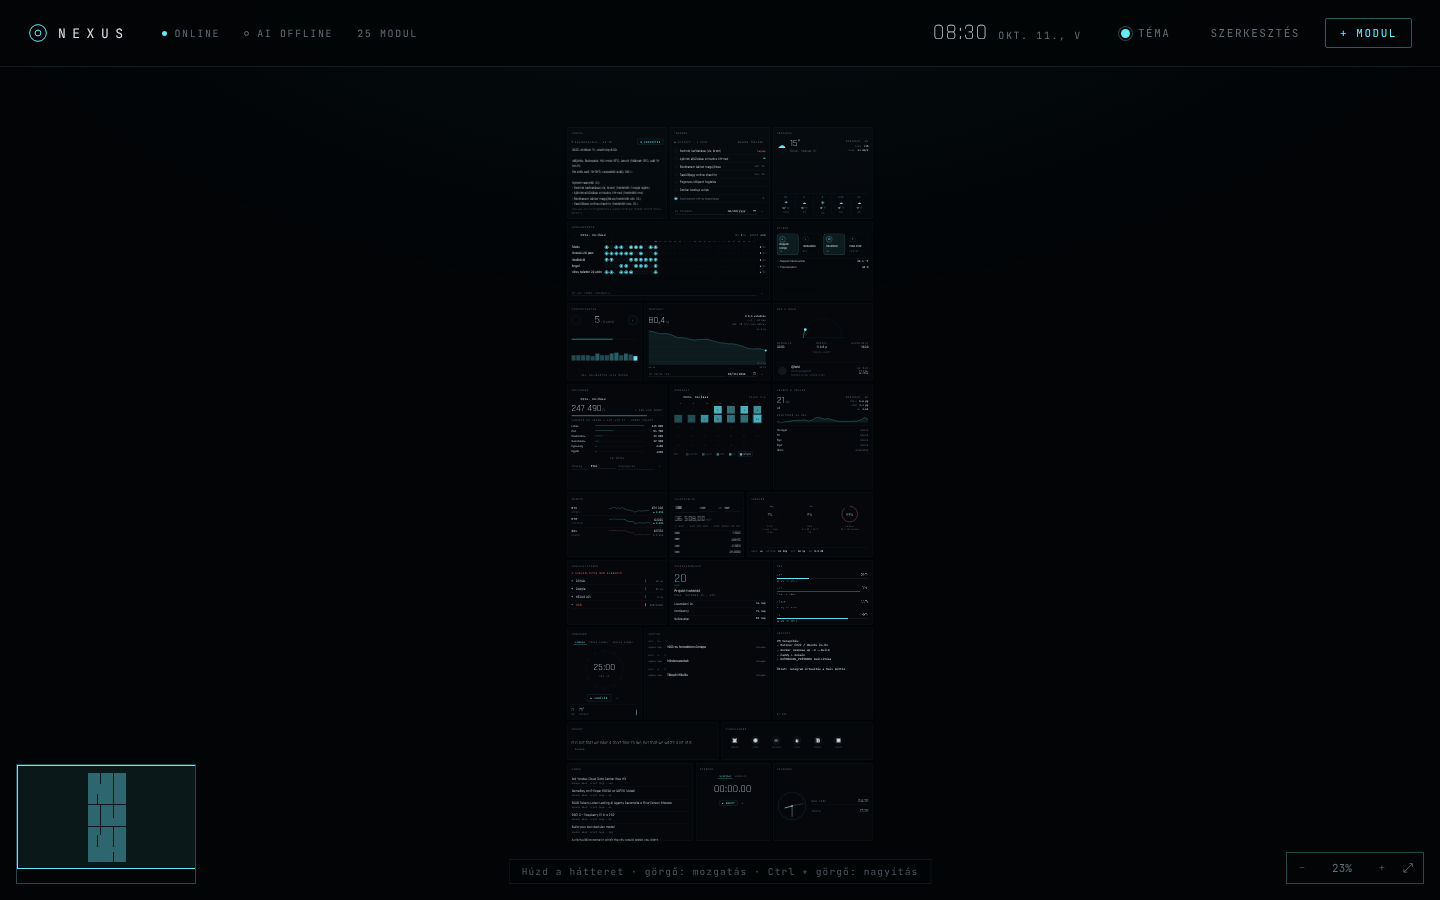
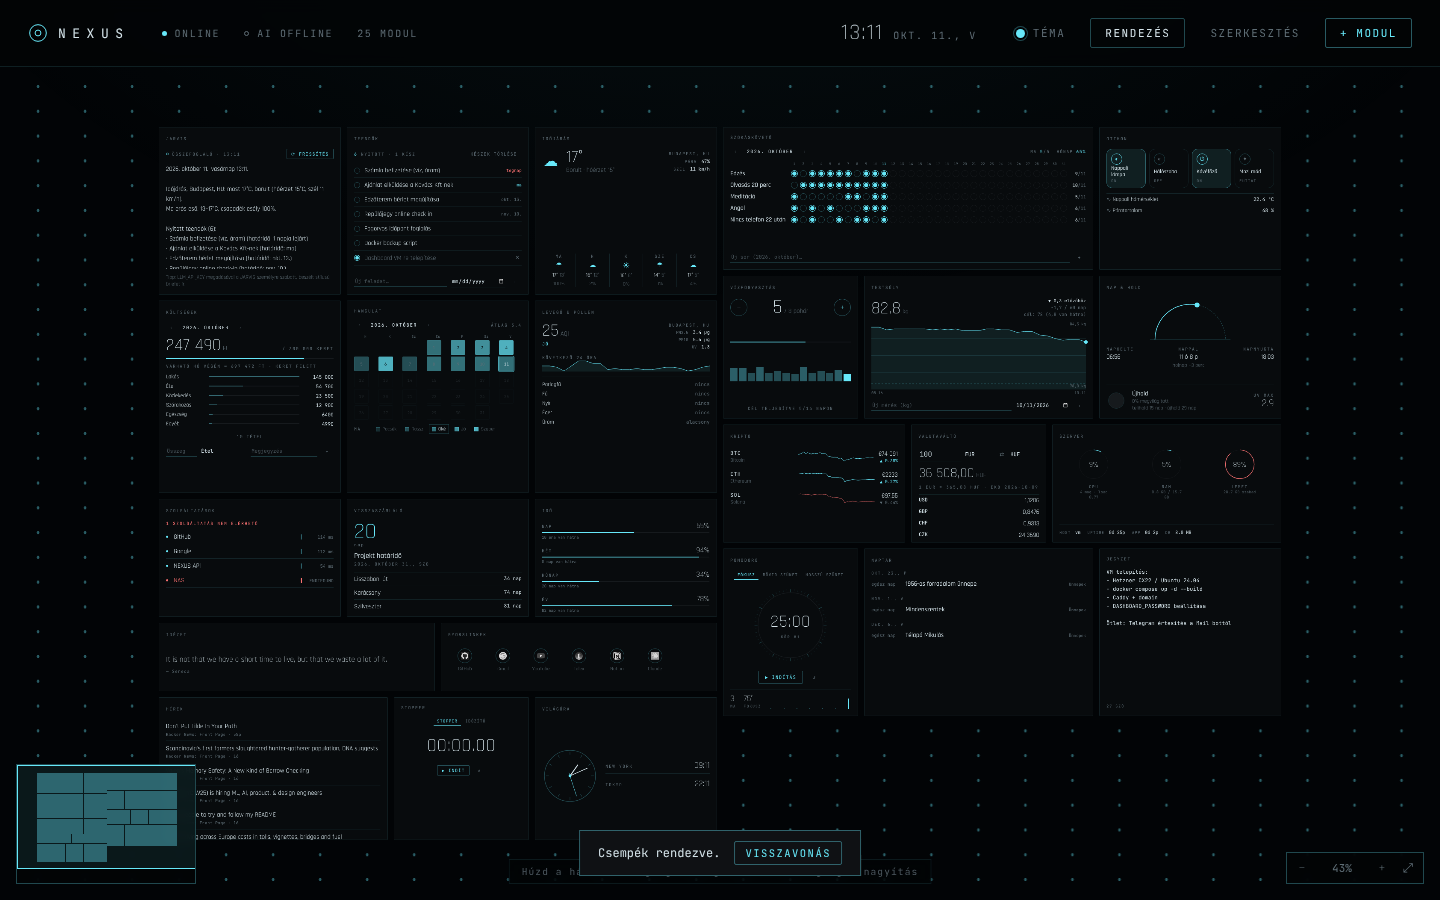
Canvas: fix tiles jumping when moved, add Arrange button
Root causes of tiles landing far away / jumping:
- preventCollision snapped a tile dropped onto another back to its last
  valid spot (often many cells away). Tiles now follow the cursor freely
  and land where dropped, or at the nearest free spot (shown as a dashed
  landing preview while dragging); a resize moves covered neighbours aside
- react-grid-layout stores its own unresolved layout right after
  onDragStop/onResizeStop, so the screen could differ from what was saved
  (tiles 'moved' on reload). Resolved positions are written into the
  layout objects it keeps, so screen and DB always match
- holding space to pan toggled isDraggable, which never reached RGL's
  memoised items: tiles stayed undraggable afterwards. Space-pan now
  intercepts pointerdown in the capture phase instead; space no longer
  'clicks' the focused button (which turned edit mode off)
- the world grew with animated tile transitions while the view jumped;
  transitions removed. The world now also grows ahead of panning so
  there is always canvas under the cursor to drop onto (a pan in
  progress is compensated too)

Also:
- 'Rendezés' (Arrange) in the header packs tiles first-fit in reading
  order into a band sized to the screen's aspect ratio, then fits the
  view; undo available for 12 s
- zoomed out (<50%) the whole tile is a drag handle in edit mode

Claude-Session: https://claude.ai/code/session_01FdLF9bfjzCjrgQMXXWBU8X

diff --git a/client/src/components/Canvas.jsx b/client/src/components/Canvas.jsx
@@ -6,7 +6,7 @@ export const CELL_W = 96;
 export const CELL_H = 44;
 export const GAP = 14;
 const MIN_COLS = 160;
-const EDGE = 8; // keep at least this many free cells left / above the content (the world grows as needed)
+const EDGE = 3; // keep at least this many free cells left / above the content (the world grows as needed)
 const ZOOM_MIN = 0.1;
 const ZOOM_MAX = 2;
 const VIEW_KEY = 'nexus:canvas-view';
@@ -46,6 +46,48 @@ export function findFreeSpot(items, w, h, cx, cy) {
   }
   const b = items.reduce((m, it) => Math.max(m, it.y + it.h), 0);
   return { x: x0, y: b + 1 };
+}
+
+// After a drag: the moved tile stays where it was dropped, or goes to the nearest free spot.
+function resolveDrag(layout, id) {
+  const moved = layout.find((l) => l.i === id);
+  const others = layout.filter((l) => l.i !== id);
+  if (!moved || !others.some((o) => overlaps(o, moved))) return layout;
+  const spot = findFreeSpot(others, moved.w, moved.h, moved.x + moved.w / 2, moved.y + moved.h / 2);
+  return layout.map((l) => (l.i === id ? { ...l, ...spot } : l));
+}
+
+// After a resize: the resized tile keeps its size; tiles it now covers step aside to the nearest free spot.
+function resolveResize(layout, id) {
+  const resized = layout.find((l) => l.i === id);
+  if (!resized) return layout;
+  const rest = layout.filter((l) => l.i !== id);
+  const result = [resized, ...rest.filter((l) => !overlaps(l, resized))];
+  for (const l of rest.filter((o) => overlaps(o, resized))) {
+    result.push({ ...l, ...findFreeSpot(result, l.w, l.h, l.x + l.w / 2, l.y + l.h / 2) });
+  }
+  return result;
+}
+
+// "Rendezés": pack tiles top-left first, in reading order, into a band `width` cells wide.
+export function arrange(items, width, origin = { x: 24, y: 24 }) {
+  const order = [...items].sort((a, b) => a.y - b.y || a.x - b.x);
+  const W = Math.max(width, ...order.map((l) => l.w));
+  const placed = [];
+  for (const l of order) {
+    let spot = null;
+    for (let y = 0; !spot; y++) {
+      for (let x = 0; x + l.w <= W; x++) {
+        const cand = { x, y, w: l.w, h: l.h };
+        if (!placed.some((p) => overlaps(p, cand))) {
+          spot = cand;
+          break;
+        }
+      }
+    }
+    placed.push({ ...l, x: spot.x, y: spot.y });
+  }
+  return placed.map((l) => ({ ...l, x: l.x + origin.x, y: l.y + origin.y }));
 }
 
 function loadView() {
@@ -101,6 +143,9 @@ export default function Canvas({ items, onItemsChange, editing, children, onApi 
     [items, size],
   );
 
+  const fitRef = useRef(fit);
+  fitRef.current = fit;
+
   // First visit: show everything.
   useEffect(() => {
     if (!view && items.length && size.w > 0) fit();
@@ -137,12 +182,22 @@ export default function Canvas({ items, onItemsChange, editing, children, onApi 
   useEffect(() => {
     onApi?.({
       centerCell,
+      // tidy everything into a band as wide as the screen (at 100%), then show it all
+      arrange: () => {
+        // band width chosen so the packed block has the screen's aspect ratio (fills the screen when fitted)
+        const area = items.reduce((a, l) => a + l.w * (CELL_W + GAP) * l.h * (CELL_H + GAP), 0);
+        const widthPx = Math.sqrt(area * (size.w / Math.max(1, size.h)));
+        const cols = Math.min(48, Math.max(8, Math.round(widthPx / (CELL_W + GAP))));
+        const next = arrange(items, cols, { x: EDGE * 4, y: EDGE * 4 });
+        onItemsChange(next);
+        setTimeout(() => fitRef.current?.(next), 0);
+      },
       reveal: (l) => {
         const p = toPx(l);
         centerOn(p.x + p.w / 2, p.y + p.h / 2);
       },
     });
-  }, [onApi, centerCell, centerOn]);
+  }, [onApi, centerCell, centerOn, items, size, onItemsChange]);
 
   // ---------- wheel: pan, ctrl/⌘ (or pinch) zooms ----------
   useEffect(() => {
@@ -178,7 +233,12 @@ export default function Canvas({ items, onItemsChange, editing, children, onApi 
         setSpace(true);
       }
     };
-    const up = (e) => e.code === 'Space' && setSpace(false);
+    const up = (e) => {
+      if (e.code !== 'Space') return;
+      setSpace(false);
+      // space is our pan key: don't let it also "click" the focused button (e.g. toggle edit mode off)
+      if (!/input|textarea|select/i.test(e.target.tagName) && !e.target.isContentEditable) e.preventDefault();
+    };
     window.addEventListener('keydown', down);
     window.addEventListener('keyup', up);
     return () => {
@@ -187,10 +247,14 @@ export default function Canvas({ items, onItemsChange, editing, children, onApi 
     };
   }, []);
 
+  // Capture phase: with space held (or the middle button) we pan even over a tile, and preventDefault on
+  // pointerdown suppresses the mousedown the tile's drag handler would otherwise get. Tiles stay
+  // isDraggable the whole time — toggling it does not reach react-grid-layout's memoised items.
   const onPointerDown = (e) => {
     const onTile = e.target.closest('.react-grid-item, .canvas-ui');
     if (!(e.button === 1 || (e.button === 0 && (space || !onTile)))) return;
     e.preventDefault();
+    e.stopPropagation();
     pan.current = { id: e.pointerId, sx: e.clientX, sy: e.clientY, x: v.x, y: v.y };
     vpRef.current.setPointerCapture(e.pointerId);
     setPanning(true);
@@ -225,9 +289,72 @@ export default function Canvas({ items, onItemsChange, editing, children, onApi 
   );
 
   const strip = (layout) => layout.map(({ i, x, y, w, h, minW, minH }) => ({ i, x, y, w, h, minW, minH }));
-  const commit = (layout) => onItemsChange(normalise(strip(layout)));
+  const interacting = useRef(false); // a tile is being dragged / resized
+
+  // The world starts at cell 0; keep at least half a screen of it left of / above the viewport, so wherever
+  // you pan there is canvas under the cursor to drop onto. Grows by shifting all tiles and the view together.
+  useEffect(() => {
+    if (!view || interacting.current || !items.length) return;
+    const cw = (CELL_W + GAP) * view.zoom;
+    const ch = (CELL_H + GAP) * view.zoom;
+    const dx = view.x > -size.w / 2 ? Math.ceil((view.x + size.w / 2) / cw) + 10 : 0;
+    const dy = view.y > -size.h / 2 ? Math.ceil((view.y + size.h / 2) / ch) + 10 : 0;
+    if (!dx && !dy) return;
+    onItemsChange(items.map((l) => ({ ...l, x: l.x + dx, y: l.y + dy })));
+    setView((c) => ({ ...c, x: c.x - dx * cw, y: c.y - dy * ch }));
+    // a pan in progress computes the view from its start point — move that too, or the next mouse move undoes this
+    if (pan.current) {
+      pan.current.x -= dx * cw;
+      pan.current.y -= dy * ch;
+    }
+  }, [view, items, size, onItemsChange]);
+  const [ghost, setGhost] = useState(null);
+  const lastDrag = useRef(null);
+
+  // While dragging, tiles may overlap freely (so the tile follows the cursor); show where it will land.
+  const onStart = () => {
+    interacting.current = true;
+  };
+  const onDrag = (layout, _old, item) => {
+    const resolved = resolveDrag(strip(layout), item.i).find((l) => l.i === item.i);
+    lastDrag.current = { i: item.i, x: item.x, y: item.y };
+    setGhost(resolved.x !== item.x || resolved.y !== item.y ? resolved : null);
+  };
+  // react-grid-layout stores the very `layout` array it passes to onDragStop / onResizeStop right after
+  // calling us. Writing the resolved positions into those objects keeps its internal state and ours identical
+  // (handing them over as props instead races with that setState).
+  const applyTo = (rglLayout, resolved) => {
+    const byId = Object.fromEntries(resolved.map((l) => [l.i, l]));
+    for (const l of rglLayout) {
+      const r = byId[l.i];
+      if (r) Object.assign(l, { x: r.x, y: r.y, w: r.w, h: r.h });
+    }
+  };
+  const onDragStop = (layout, _old, item) => {
+    interacting.current = false;
+    setGhost(null);
+    // land exactly where the preview / placeholder last was (the drop event can round one cell differently)
+    const last = lastDrag.current?.i === item.i ? lastDrag.current : null;
+    lastDrag.current = null;
+    const dropped = strip(layout).map((l) => (last && l.i === item.i ? { ...l, x: last.x, y: last.y } : l));
+    const final = normalise(resolveDrag(dropped, item.i));
+    applyTo(layout, final);
+    onItemsChange(final);
+  };
+  const onResizeStop = (layout, _old, item) => {
+    interacting.current = false;
+    const final = normalise(resolveResize(strip(layout), item.i));
+    applyTo(layout, final);
+    onItemsChange(final);
+  };
 
   const layout = useMemo(() => items.map((l) => ({ ...l })), [items]);
+  // react-grid-layout's items only re-render when their children change. When the drag handle mode flips
+  // (zoomed out: whole tile; otherwise: header) hand them fresh elements once so the new mode applies.
+  const grabAll = v.zoom < 0.5;
+  // eslint-disable-next-line react-hooks/exhaustive-deps
+  // (plain array map: React.Children.map would prefix the keys react-grid-layout matches the layout by)
+  const tiles = useMemo(() => [].concat(children).map((c) => React.cloneElement(c)), [children, grabAll]);
   const content = bounds(items);
 
   // ---------- minimap ----------
@@ -262,7 +389,7 @@ export default function Canvas({ items, onItemsChange, editing, children, onApi 
       ref={vpRef}
       className={`canvas-viewport ${panning ? 'panning' : ''} ${space ? 'space' : ''} ${v.zoom < 0.3 ? 'far' : ''}`}
       style={bg}
-      onPointerDown={onPointerDown}
+      onPointerDownCapture={onPointerDown}
       onPointerMove={onPointerMove}
       onPointerUp={endPan}
       onPointerCancel={endPan}
@@ -276,18 +403,23 @@ export default function Canvas({ items, onItemsChange, editing, children, onApi 
           rowHeight={CELL_H}
           margin={[GAP, GAP]}
           compactType={null}
-          preventCollision
+          allowOverlap
           transformScale={v.zoom}
-          isDraggable={editing && !space}
-          isResizable={editing && !space}
-          draggableHandle=".tile-head"
-          draggableCancel=".no-drag"
+          isDraggable={editing}
+          isResizable={editing}
+          // zoomed out, headers are tiny targets: let the whole tile be grabbed (except controls)
+          draggableHandle={grabAll ? undefined : '.tile-head'}
+          draggableCancel={grabAll ? 'button, input, textarea, select, a, iframe, .react-resizable-handle' : '.no-drag'}
           resizeHandles={['se']}
-          onDragStop={commit}
-          onResizeStop={commit}
+          onDragStart={onStart}
+          onResizeStart={onStart}
+          onDrag={onDrag}
+          onDragStop={onDragStop}
+          onResizeStop={onResizeStop}
         >
-          {children}
+          {tiles}
         </GridLayout>
+        {ghost && <div className="canvas-ghost" style={{ left: toPx(ghost).x, top: toPx(ghost).y, width: toPx(ghost).w, height: toPx(ghost).h }} />}
       </div>
 
       {mmArea && (

diff --git a/client/src/styles.css b/client/src/styles.css
@@ -709,7 +709,10 @@ select.input option { background: var(--surface); color: var(--text); }
 .canvas-world { position: absolute; left: 0; top: 0; transform-origin: 0 0; will-change: transform; }
 .canvas-grid { min-height: 100px; }
 /* tiles are moved by RGL inside the scaled world; keep their own transitions for drag feedback only */
-.canvas-world .react-grid-item:not(.react-draggable-dragging):not(.resizing) { transition: transform 0.15s ease, width 0.15s, height 0.15s; }
+/* no position transitions on the canvas: when the world grows, tiles and view must move in the same frame */
+.canvas-world .react-grid-item { transition: none !important; }
+.canvas-ghost { position: absolute; z-index: 1; border: 1px dashed var(--accent); background: var(--accent-soft); border-radius: var(--radius); pointer-events: none; }
+.canvas-ghost::after { content: 'ide kerül'; position: absolute; left: 8px; top: 6px; font-family: var(--font-mono); font-size: 10px; letter-spacing: 0.16em; text-transform: uppercase; color: var(--accent); }
 .canvas-ui { position: absolute; z-index: 5; background: color-mix(in srgb, var(--bg) 88%, transparent); border: 1px solid var(--line-strong); backdrop-filter: blur(6px); }
 .zoom-ctrl { right: 16px; bottom: 16px; display: flex; align-items: center; gap: 2px; padding: 3px; }
 .zoom-pct { min-width: 52px; background: transparent; border: none; cursor: pointer; font-family: var(--font-mono); font-size: 11px; color: var(--muted); }
@@ -721,3 +724,4 @@ select.input option { background: var(--surface); color: var(--text); }
 @media (max-width: 1100px) { .canvas-hint { display: none; } }
 /* on the canvas the dot grid must not show through the tiles */
 .canvas-world .tile { background: color-mix(in srgb, var(--bg) 97%, var(--text)); }
+.toast.toast-info { border-color: var(--accent-dim); color: var(--text); display: flex; align-items: center; gap: 14px; cursor: default; z-index: 61; }

diff --git a/client/src/App.jsx b/client/src/App.jsx
@@ -57,6 +57,8 @@ export default function App() {
   const canvasTimer = useRef(null);
   const canvasApi = useRef(null);
   const isDesktop = useIsDesktop();
+  const [undo, setUndo] = useState(null); // previous canvas after "Rendezés"
+  const undoTimer = useRef(null);
 
   useEffect(() => {
     api
@@ -118,6 +120,18 @@ export default function App() {
     }
     return items;
   }, [canvas, widgets]);
+
+  const arrangeCanvas = () => {
+    const before = safeCanvas;
+    canvasApi.current?.arrange();
+    setUndo(before);
+    clearTimeout(undoTimer.current);
+    undoTimer.current = setTimeout(() => setUndo(null), 12_000);
+  };
+  const undoArrange = () => {
+    changeCanvas(undo);
+    setUndo(null);
+  };
 
   const onLayoutChange = useCallback(
     (_current, all) => {
@@ -213,10 +227,20 @@ export default function App() {
         editing={editing}
         onToggleEdit={() => setEditing((e) => !e)}
         onAdd={() => setPicker(true)}
+        onArrange={isDesktop && widgets.length > 1 ? arrangeCanvas : null}
         count={widgets.length}
         appearance={appearance}
         onAppearance={changeAppearance}
       />
+
+      {undo && (
+        <div className="toast toast-info">
+          Csempék rendezve.
+          <button className="btn btn-primary sm" onClick={undoArrange}>
+            Visszavonás
+          </button>
+        </div>
+      )}
 
       {error && (
         <div className="toast" onClick={() => setError(null)}>

diff --git a/client/src/components/TopBar.jsx b/client/src/components/TopBar.jsx
@@ -3,7 +3,7 @@ import { useNow } from '../hooks.js';
 import { api } from '../api.js';
 import ThemePicker from './ThemePicker.jsx';
 
-export default function TopBar({ editing, onToggleEdit, onAdd, count, appearance, onAppearance }) {
+export default function TopBar({ editing, onToggleEdit, onAdd, onArrange, count, appearance, onAppearance }) {
   const now = useNow(1000);
   const [status, setStatus] = useState(null);
   useEffect(() => {
@@ -38,6 +38,11 @@ export default function TopBar({ editing, onToggleEdit, onAdd, count, appearance
           </span>
         </div>
         <ThemePicker appearance={appearance} onChange={onAppearance} />
+        {onArrange && (
+          <button className="btn btn-ghost" onClick={onArrange} title="Csempék rendezése hézag nélküli rácsba">
+            Rendezés
+          </button>
+        )}
         <button className={`btn btn-ghost ${editing ? 'btn-active' : ''}`} onClick={onToggleEdit}>
           {editing ? 'Kész' : 'Szerkesztés'}
         </button>

diff --git a/README.md b/README.md
@@ -19,6 +19,9 @@ Az első indításkor üres a fedélzet, és megnyílik a modul-katalógus.
   - mozgatás: az üres háttér húzása, görgő vagy touchpad, középső egérgomb, vagy **szóköz + húzás**
   - nagyítás: **Ctrl/⌘ + görgő** vagy csippentés, mindig a kurzor felé; −/+, 100% és **⤢ Mindent mutat** gomb jobb alul
   - **minitérkép** bal alul: kattints vagy húzd, és odaugrik
+  - **Rendezés** gomb a fejlécben: egy kattintással hézag nélküli, a képernyő arányához igazított rácsba rendezi a csempéket (12 másodpercig visszavonható)
+  - húzás közben a csempe a kurzort követi; ha foglalt helyre engednéd el, szaggatott keret mutatja, melyik legközelebbi szabad helyre kerül. Átméretezéskor a kitakart szomszédok húzódnak arrébb
+  - kicsinyítve (50% alatt) szerkesztéskor az egész csempe megfogható, nem csak a fejléce
   - telefonon a csempék egymás alatt jelennek meg (görgethető lista)
 - **+ Modul**: új csempe hozzáadása a katalógusból (a képernyő közepére, az első szabad helyre)
 - **Szerkesztés**: a csempék szaggatott keretet kapnak, ilyenkor a fejlécüknél fogva húzhatók, a jobb alsó sarkuknál átméretezhetők, a ✕-szel törölhetők
